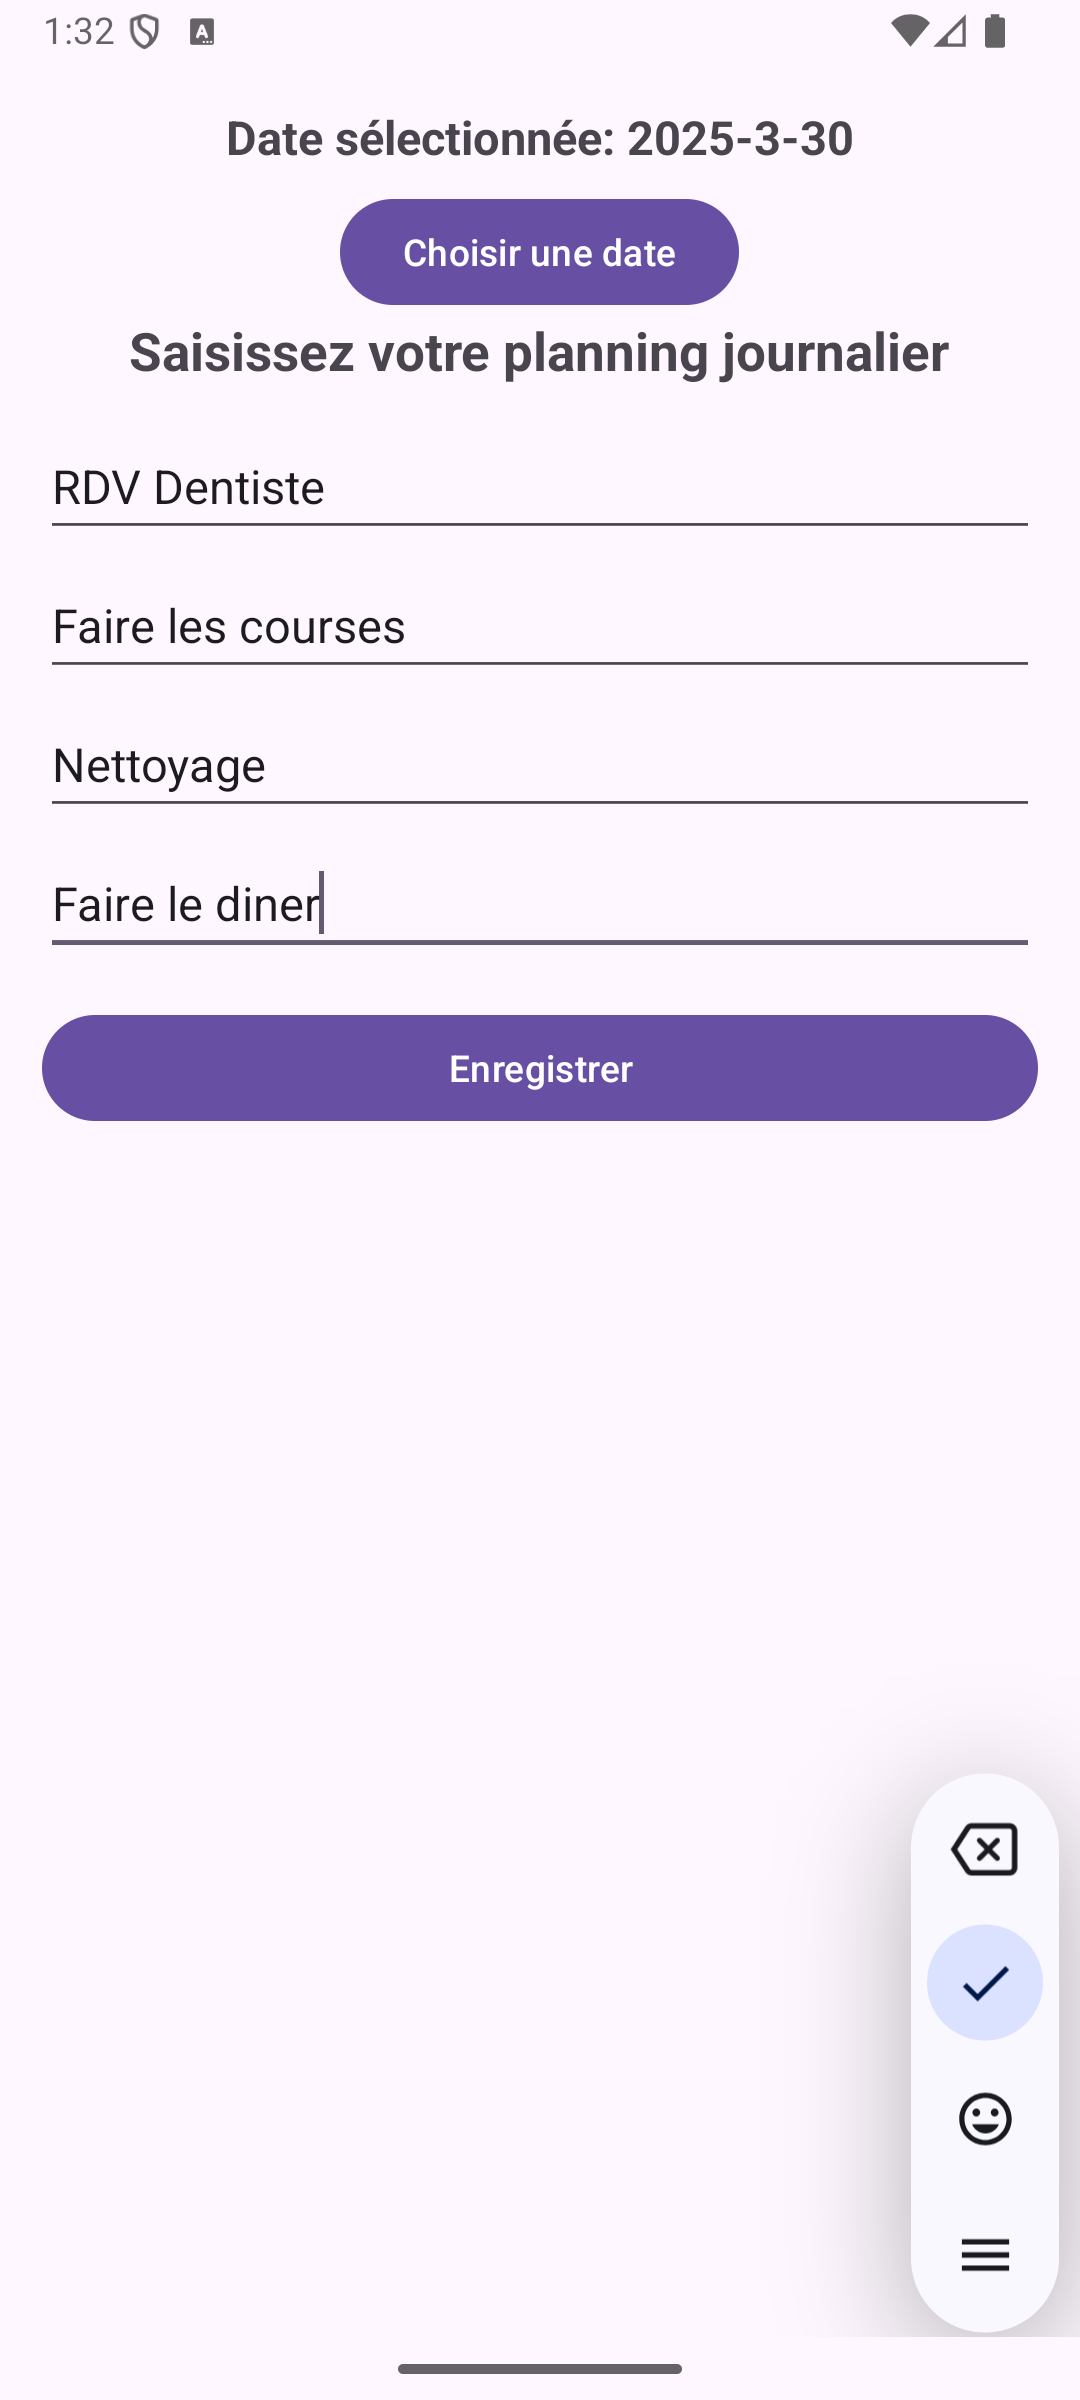
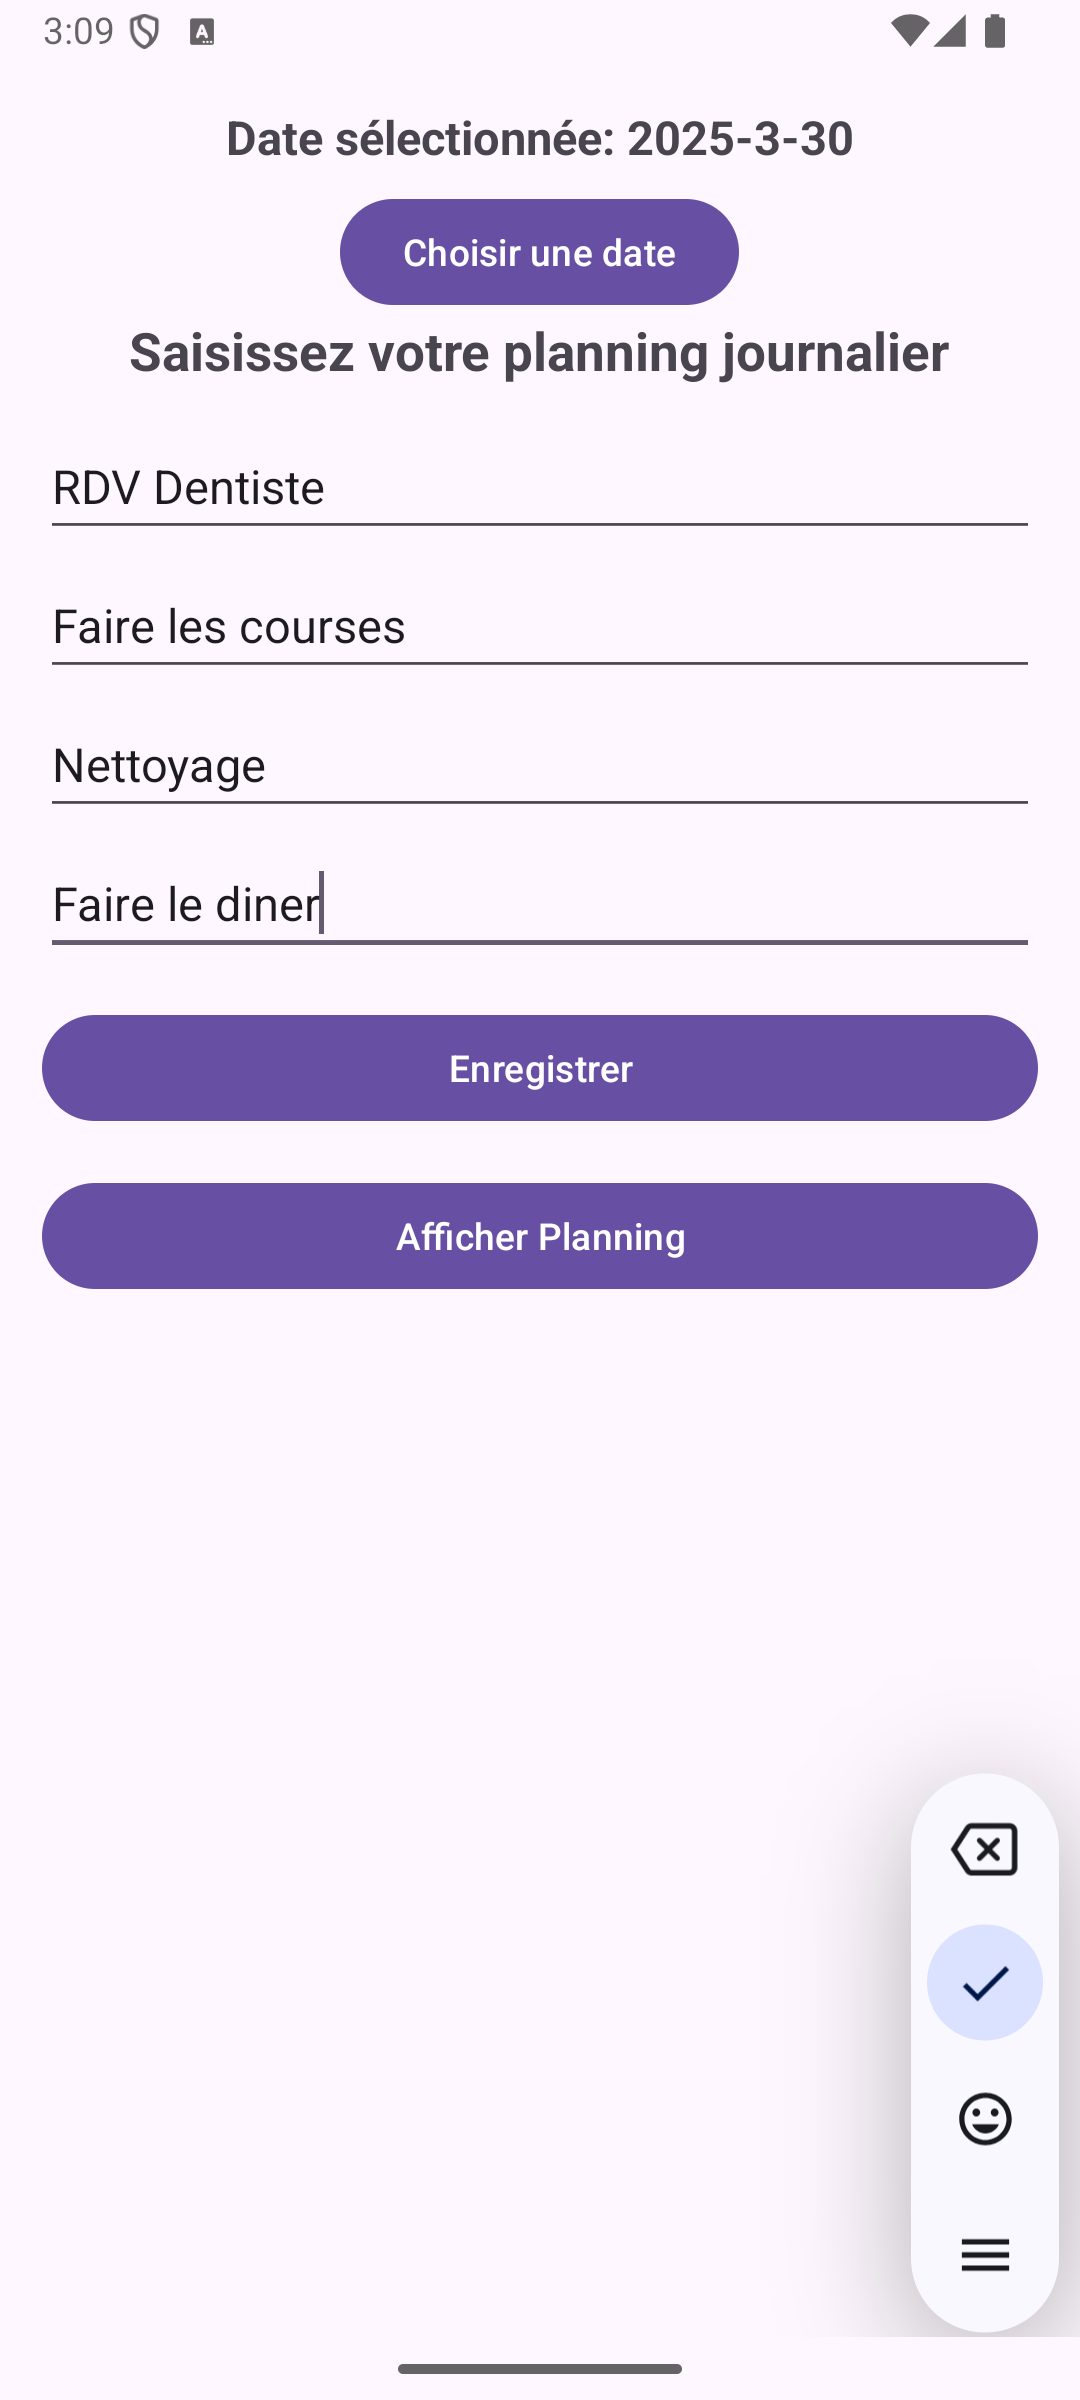
add button for go back

Changed region(s): [[0.0306, 0.4688, 0.9778, 0.5625]]

diff --git a/app/src/main/java/com/example/tp3/FragmentPlanning.java b/app/src/main/java/com/example/tp3/FragmentPlanning.java
@@ -45,6 +45,7 @@ public class FragmentPlanning extends Fragment {
         EditText et_14_16 = view.findViewById(R.id.et_14_16);
         EditText et_16_18 = view.findViewById(R.id.et_16_18);
         Button buttonSave = view.findViewById(R.id.save);
+        Button buttonAfficher = view.findViewById(R.id.afficher_planning);
 
         buttonDate.setOnClickListener(v -> {
             Calendar calendar = Calendar.getInstance();
@@ -75,12 +76,17 @@ public class FragmentPlanning extends Fragment {
             Planning planning = new Planning(selectDate,planning08_10, planning10_12, planning14_16, planning16_18,mail);
             new Thread(() -> {
                 bd.planingDAO().insert(planning);
-                Intent intent = new Intent(getActivity(), SynthesePlanningActivity.class);
-                intent.putExtra("mail", mail); // Passer l'email de l'utilisateur à l'activité de synthèse
-                startActivity(intent);
+
             }).start();
 
         });
+
+        buttonAfficher.setOnClickListener(v -> {
+            Intent intent = new Intent(getActivity(), SynthesePlanningActivity.class);
+            intent.putExtra("mail", mail); // Passer l'email de l'utilisateur à l'activité de synthèse
+            startActivity(intent);
+        });
+
 
 
 

diff --git a/app/src/main/java/com/example/tp3/SynthesePlanningActivity.java b/app/src/main/java/com/example/tp3/SynthesePlanningActivity.java
@@ -62,6 +62,11 @@ public class SynthesePlanningActivity extends AppCompatActivity {
             }
         }).start();
 
+        //si on appuis sur go back
+        findViewById(R.id.go_back).setOnClickListener(v -> {
+            finish();
+        });
+
 
 
         ViewCompat.setOnApplyWindowInsetsListener(findViewById(R.id.main), (v, insets) -> {
